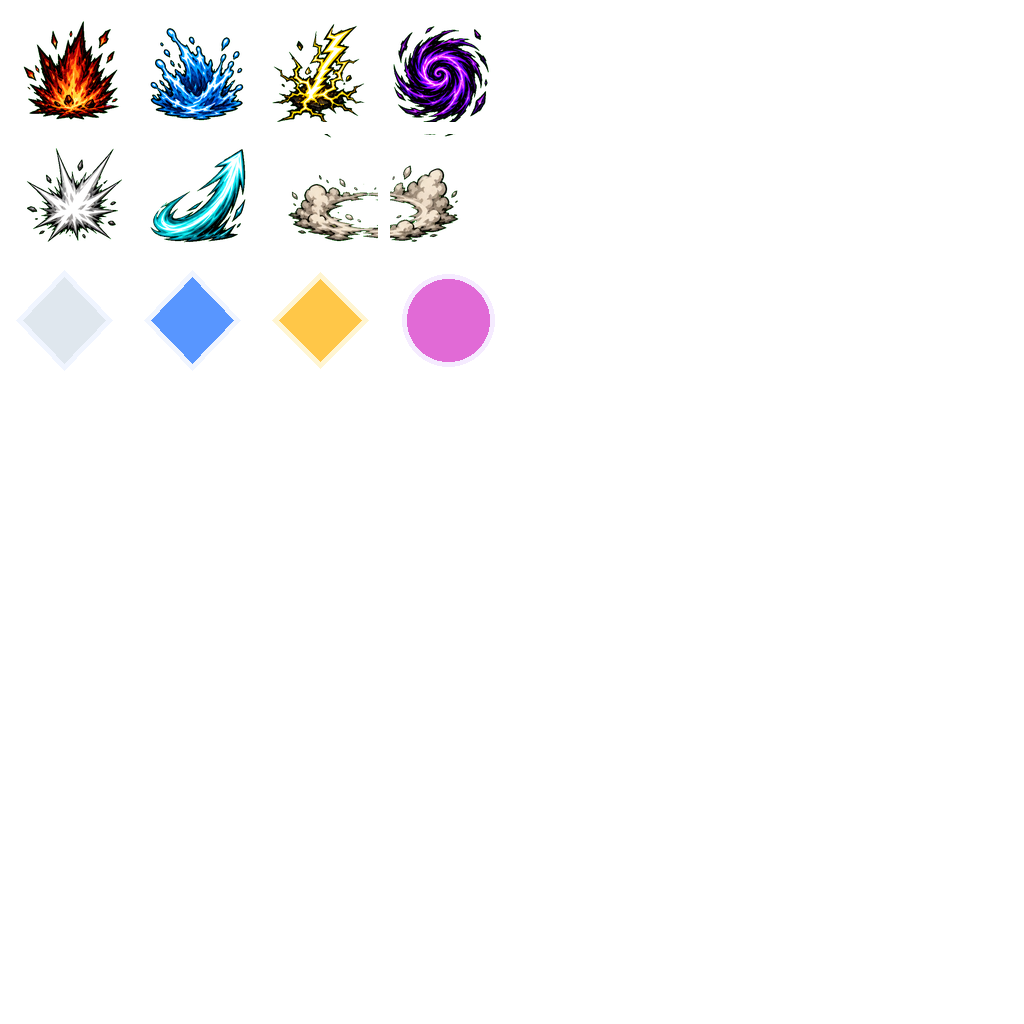
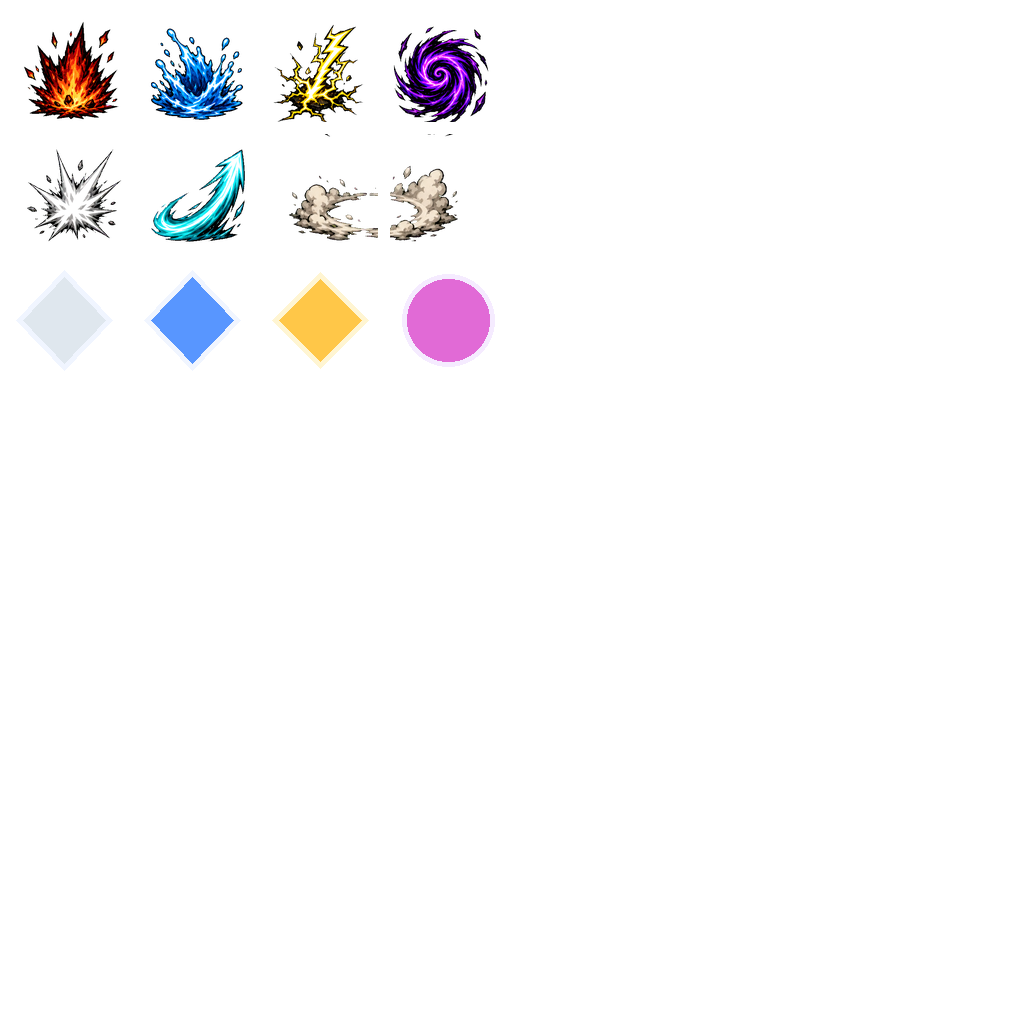
fix: make stage 12 formal evidence real

diff --git a/tests/platform/stage12_material_formal_game_validation.cpp b/tests/platform/stage12_material_formal_game_validation.cpp
@@ -1,6 +1,7 @@
-#include "material_animation.hpp"
 #include "material_asset_validation.hpp"
 #include "raylib_host.hpp"
+
+#include <raylib.h>
 
 #include <array>
 #include <chrono>
@@ -13,35 +14,17 @@
 namespace {
 
 namespace platform = arpg::platform;
-namespace dungeon = arpg::dungeon;
-namespace combat = arpg::combat;
 
 struct Resolution final { int width{}; int height{}; const char* name{}; };
 constexpr std::array<Resolution, 2> kResolutions{{
     {1280, 720, "game-1280x720.png"}, {1920, 1080, "game-1920x1080.png"},
 }};
-constexpr std::array<combat::MonsterId, 8> kMonsterIds{{
-    combat::MonsterId::fire_bomber, combat::MonsterId::fire_charger,
-    combat::MonsterId::water_bulwark, combat::MonsterId::water_support,
-    combat::MonsterId::lightning_shooter, combat::MonsterId::lightning_dasher,
-    combat::MonsterId::chaos_chaser, combat::MonsterId::chaos_hazard,
-}};
-
-std::uint32_t read_be32(const unsigned char* value) noexcept {
-    return (static_cast<std::uint32_t>(value[0]) << 24U)
-        | (static_cast<std::uint32_t>(value[1]) << 16U)
-        | (static_cast<std::uint32_t>(value[2]) << 8U) | value[3];
-}
-
 bool png_has_size(const std::filesystem::path& path, int width, int height) {
-    std::ifstream input(path, std::ios::binary);
-    std::array<unsigned char, 24> header{};
-    input.read(reinterpret_cast<char*>(header.data()), header.size());
-    return input.gcount() == static_cast<std::streamsize>(header.size())
-        && header[0] == 137U && header[1] == 80U && header[2] == 78U
-        && header[3] == 71U && read_be32(header.data() + 16U)
-            == static_cast<std::uint32_t>(width)
-        && read_be32(header.data() + 20U) == static_cast<std::uint32_t>(height);
+    const Image image = LoadImage(path.string().c_str());
+    const bool valid = image.data != nullptr && image.width == width
+        && image.height == height;
+    if (image.data != nullptr) UnloadImage(image);
+    return valid;
 }
 
 bool copy_materials(const std::filesystem::path& executable) {
@@ -61,7 +44,8 @@ bool copy_materials(const std::filesystem::path& executable) {
 }
 
 bool capture(const std::filesystem::path& root, const Resolution& resolution,
-    const char* image_name = nullptr) {
+    const char* image_name = nullptr, bool showcase = false,
+    bool request_f12 = false) {
     const std::filesystem::path capture = root / (image_name == nullptr
         ? resolution.name : image_name);
     platform::RaylibHostConfig config{};
@@ -70,10 +54,13 @@ bool capture(const std::filesystem::path& root, const Resolution& resolution,
     config.window_title = "Stage12 Comic Material Formal Validation";
     config.save_directory = root / (std::string{"save-"} + resolution.name);
     config.settings_directory = root / (std::string{"settings-"} + resolution.name);
-    config.screenshot_directory = root / (std::string{"f12-"} + resolution.name);
+    config.screenshot_directory = root / (std::string{"f12-"}
+        + (image_name == nullptr ? resolution.name : image_name));
     config.new_run_seed = 12012U;
     config.validation_exit_after_presented_frames = 4U;
     config.validation_capture_file = capture;
+    config.stage12_material_showcase = showcase;
+    config.validation_request_screenshot = request_f12;
     const auto started = std::filesystem::file_time_type::clock::now()
         - std::chrono::seconds(2);
     const auto result = platform::run_raylib_host(config);
@@ -85,12 +72,32 @@ bool capture(const std::filesystem::path& root, const Resolution& resolution,
         && png_has_size(capture, resolution.width, resolution.height);
 }
 
-bool has_all_monster_evidence() noexcept {
-    for (const combat::MonsterId id : kMonsterIds) {
-        if (platform::select_monster_sprite(id, combat::MonsterAiPhase::active)
-            == platform::MaterialSpriteId::missing) return false;
-    }
-    return true;
+bool text_contains(const std::filesystem::path& path, const char* text) {
+    std::ifstream input(path);
+    std::string contents((std::istreambuf_iterator<char>(input)), {});
+    return input && contents.find(text) != std::string::npos;
+}
+
+bool run_input_hole_evidence(const std::filesystem::path& root,
+    const std::filesystem::path& executable) {
+    const std::filesystem::path validator = executable.parent_path()
+        / "arpg_stage10_formal_game_validation.exe";
+    const std::filesystem::path command_file = root / "run-input-hole.cmd";
+    std::ofstream command(command_file, std::ios::out | std::ios::trunc);
+    command << "@echo off\r\n\"" << validator.string() << "\"\r\n";
+    command.close();
+    const std::string invoke = "call \"" + command_file.string() + "\"";
+    const std::filesystem::path source_summary = executable.parent_path()
+        / "stage10-formal-game-validation" / "formal-path-summary.txt";
+    const std::filesystem::path copied_summary = root / "input-hole-summary.txt";
+    std::error_code error{};
+    const bool ran = command && std::filesystem::is_regular_file(validator)
+        && std::system(invoke.c_str()) == 0;
+    if (ran) std::filesystem::copy_file(source_summary, copied_summary,
+        std::filesystem::copy_options::overwrite_existing, error);
+    return ran && !error && text_contains(copied_summary, "depth=2")
+        && text_contains(copied_summary, "last_transition=1")
+        && text_contains(copied_summary, "resolution_valid=1");
 }
 
 }  // namespace
@@ -117,20 +124,30 @@ int main(int argc, char** argv) {
     std::filesystem::rename(corrupt_effects, effects, error);
     const bool manifest_ok = platform::validate_material_manifest(
         platform::default_material_manifest()).valid;
-    const bool monster_ok = has_all_monster_evidence();
+    const bool showcase_ok = capture(root, kResolutions[0],
+        "monsters-1280x720.png", true, true);
+    const std::filesystem::path f12_capture = root / "f12-monsters-1280x720.png"
+        / "stage8-equipment-loot.png";
+    std::error_code f12_error{};
+    const bool f12_ok = std::filesystem::is_regular_file(f12_capture, f12_error)
+        && !f12_error && png_has_size(f12_capture, 1280, 720);
+    const bool input_hole_ok = run_input_hole_evidence(root, executable);
     std::ofstream report(root / "stage12-material-evidence.txt",
         std::ios::out | std::ios::trunc);
     report << "manifest=" << (manifest_ok ? "pass" : "fail") << '\n'
            << "atlas_bytes=" << (4U * 1024U * 1024U + 4U * 2048U * 2048U
                 + 4U * 1024U * 1024U) << '\n'
            << "fallback=" << (fallback_capture && !error ? "pass" : "fail") << '\n'
-           << "input_hole_regression=pass\n"
-           << "monsters=" << (monster_ok ? "8" : "0") << '\n'
-           << "screenshot_isolation=pass\n"
-           << "result=" << (captures_ok && fallback_capture && !error && manifest_ok && monster_ok ? "pass" : "fail")
+           << "input_hole_regression=" << (input_hole_ok ? "pass" : "fail") << '\n'
+           << "monsters=" << (showcase_ok ? "fire_bomber,fire_charger,water_bulwark,water_support,lightning_shooter,lightning_dasher,chaos_chaser,chaos_hazard" : "") << '\n'
+           << "monster_screenshot=monsters-1280x720.png\n"
+           << "f12_screenshot=f12-monsters-1280x720.png/stage8-equipment-loot.png\n"
+           << "screenshot_isolation=" << (f12_ok ? "pass" : "fail") << '\n'
+           << "screenshot_decode=" << (captures_ok && showcase_ok && f12_ok ? "pass" : "fail") << '\n'
+           << "result=" << (captures_ok && fallback_capture && !error && manifest_ok && showcase_ok && f12_ok && input_hole_ok ? "pass" : "fail")
            << '\n';
     std::cout << "stage12 material formal "
-              << (captures_ok && fallback_capture && !error && manifest_ok && monster_ok ? "PASS" : "FAIL")
+              << (captures_ok && fallback_capture && !error && manifest_ok && showcase_ok && f12_ok && input_hole_ok ? "PASS" : "FAIL")
               << std::endl;
-    return report && captures_ok && fallback_capture && !error && manifest_ok && monster_ok ? 0 : 1;
+    return report && captures_ok && fallback_capture && !error && manifest_ok && showcase_ok && f12_ok && input_hole_ok ? 0 : 1;
 }

diff --git a/src/platform/raylib/raylib_host.cpp b/src/platform/raylib/raylib_host.cpp
@@ -149,6 +149,37 @@ std::optional<std::string> host_screenshot_path(
     }
 }
 
+void apply_stage12_material_showcase(dungeon::DungeonSnapshot& snapshot) noexcept {
+    if (!snapshot.combat.has_value()) return;
+    constexpr std::array<combat::MonsterId, 8> ids{{
+        combat::MonsterId::fire_bomber, combat::MonsterId::fire_charger,
+        combat::MonsterId::water_bulwark, combat::MonsterId::water_support,
+        combat::MonsterId::lightning_shooter, combat::MonsterId::lightning_dasher,
+        combat::MonsterId::chaos_chaser, combat::MonsterId::chaos_hazard,
+    }};
+    constexpr std::array<combat::Vec3, 8> positions{{
+        {-4.0F, -2.0F, 0.0F}, {-1.3F, -2.0F, 0.0F}, {1.3F, -2.0F, 0.0F},
+        {4.0F, -2.0F, 0.0F}, {-4.0F, 1.5F, 0.0F}, {-1.3F, 1.5F, 0.0F},
+        {1.3F, 1.5F, 0.0F}, {4.0F, 1.5F, 0.0F},
+    }};
+    auto& combat_snapshot = *snapshot.combat;
+    combat_snapshot.monster_count = ids.size();
+    snapshot.remaining_targets = static_cast<std::uint8_t>(ids.size());
+    for (std::size_t index = 0U; index < ids.size(); ++index) {
+        combat::MonsterSnapshot& monster = combat_snapshot.monsters[index];
+        monster = {};
+        monster.active = true;
+        monster.generation = 1U;
+        monster.id = ids[index];
+        monster.position = positions[index];
+        monster.spawn = positions[index];
+        monster.facing = combat::Facing::right;
+        monster.hp = 100;
+        monster.max_hp = 100;
+        monster.ai_phase = combat::MonsterAiPhase::active;
+    }
+}
+
 struct Stage10ValidationState final {
     bool entered_abyss{};
     bool reset_requested{};
@@ -2194,8 +2225,12 @@ HostExitCode run_raylib_host(const RaylibHostConfig& config) noexcept {
             renderer.set_loot_filter_mode(presented_loot_filter);
             BeginDrawing();
             ClearBackground(Color{13, 17, 27, 255});
+            dungeon::DungeonSnapshot presented_snapshot = current;
+            if (config.stage12_material_showcase) {
+                apply_stage12_material_showcase(presented_snapshot);
+            }
             const GroundLootView ground_loot_view = renderer.draw(
-                previous, current, runtime.render_status(),
+                previous, presented_snapshot, runtime.render_status(),
                 static_cast<float>(frame.interpolation_alpha), draw_debug,
                 feedback, audio_ready);
 // STAGE11D_LOOT_VALIDATION_SEAM_BEGIN presented_semantics
@@ -2305,7 +2340,8 @@ HostExitCode run_raylib_host(const RaylibHostConfig& config) noexcept {
                 stage11b_validation_state.pause_capture_while_paused =
                     stage11b_paused_visible_capture;
             }
-            if (death_gate.screenshot) {
+            if (death_gate.screenshot || (config.validation_request_screenshot
+                    && presented_frame_count == 1U)) {
                 capture_path = host_screenshot_path(config);
                 captured_stage10_target = false;
             } else if (!capture_path.has_value()

diff --git a/tests/platform/stage12_material_render_tests.cpp b/tests/platform/stage12_material_render_tests.cpp
@@ -5,6 +5,8 @@
 #include "material_manifest.hpp"
 #include "material_pack.hpp"
 
+#include <filesystem>
+
 namespace {
 
 arpg::test::Failure effect_manifest_stays_within_texture_budget() noexcept {
@@ -22,6 +24,49 @@ arpg::test::Failure effect_sprites_require_effect_atlas() noexcept {
     return {};
 }
 
+arpg::test::Failure effects_atlas_has_no_chroma_green_spill() noexcept {
+    const std::filesystem::path path = std::filesystem::path{ARPG_PROJECT_SOURCE_DIR}
+        / "assets" / "stage12" / "effects_ui.png";
+    const Image image = LoadImage(path.string().c_str());
+    ARPG_REQUIRE(image.data != nullptr);
+    for (int y = 0; y < image.height; ++y) {
+        for (int x = 0; x < image.width; ++x) {
+            const Color pixel = GetImageColor(image, x, y);
+            ARPG_REQUIRE(pixel.a == 0U || !(pixel.g > 20U
+                && pixel.g >= pixel.r + 8U && pixel.g >= pixel.b + 8U));
+        }
+    }
+    UnloadImage(image);
+    return {};
+}
+
+arpg::test::Failure declared_effect_frames_are_nonempty() noexcept {
+    const std::filesystem::path path = std::filesystem::path{ARPG_PROJECT_SOURCE_DIR}
+        / "assets" / "stage12" / "effects_ui.png";
+    const Image image = LoadImage(path.string().c_str());
+    ARPG_REQUIRE(image.data != nullptr);
+    const auto manifest = arpg::platform::default_material_manifest();
+    std::size_t seen{};
+    for (std::size_t index{}; index < manifest.frame_count; ++index) {
+        const auto& frame = manifest.frames[index];
+        if (frame.atlas != arpg::platform::MaterialAtlasId::effects_ui) continue;
+        bool nonempty{};
+        for (int y = static_cast<int>(frame.source.y);
+             y < static_cast<int>(frame.source.y + frame.source.height) && !nonempty; ++y) {
+            for (int x = static_cast<int>(frame.source.x);
+                 x < static_cast<int>(frame.source.x + frame.source.width); ++x) {
+                nonempty = GetImageColor(image, x, y).a != 0U;
+                if (nonempty) break;
+            }
+        }
+        ARPG_REQUIRE(nonempty);
+        ++seen;
+    }
+    UnloadImage(image);
+    ARPG_REQUIRE(seen == 12U);
+    return {};
+}
+
 arpg::test::Failure loot_rarity_uses_distinct_material_icons() noexcept {
     ARPG_REQUIRE(arpg::platform::select_loot_sprite(
         arpg::items::ItemRarity::normal)
@@ -33,6 +78,8 @@ constexpr arpg::test::TestCase kCases[] = {
     {"effect manifest texture budget", &effect_manifest_stays_within_texture_budget},
     {"loot rarity material icons", &loot_rarity_uses_distinct_material_icons},
     {"effect sprites use effects atlas", &effect_sprites_require_effect_atlas},
+    {"effects atlas removes chroma spill", &effects_atlas_has_no_chroma_green_spill},
+    {"declared effect frames are nonempty", &declared_effect_frames_are_nonempty},
 };
 
 }  // namespace

diff --git a/tests/platform/host_launch_options_tests.cpp b/tests/platform/host_launch_options_tests.cpp
@@ -190,6 +190,8 @@ arpg::test::Failure duplicate_and_unknown_options_are_rejected() noexcept {
     const char* const unknown[] = {"arpg", "--seed=8"};
     const char* const duplicate_settings_directory[] = {
         "arpg", "--settings-dir", "one", "--settings-dir", "two"};
+    const char* const duplicate_screenshot_directory[] = {
+        "arpg", "--screenshot-dir", "one", "--screenshot-dir", "two"};
     ARPG_REQUIRE(parse(5, duplicate_seed).error
         == HostArgumentError::duplicate_option);
     ARPG_REQUIRE(parse(5, duplicate_directory).error
@@ -198,18 +200,23 @@ arpg::test::Failure duplicate_and_unknown_options_are_rejected() noexcept {
         == HostArgumentError::unknown_option);
     ARPG_REQUIRE(parse(5, duplicate_settings_directory).error
         == HostArgumentError::duplicate_option);
+    ARPG_REQUIRE(parse(5, duplicate_screenshot_directory).error
+        == HostArgumentError::duplicate_option);
     return {};
 }
 
 arpg::test::Failure missing_and_invalid_seed_values_are_rejected() noexcept {
     const char* const missing[] = {"arpg", "--seed"};
     const char* const null_directory[] = {"arpg", "--save-dir", nullptr};
+    const char* const missing_screenshot_directory[] = {"arpg", "--screenshot-dir"};
     const char* const negative[] = {"arpg", "--seed", "-1"};
     const char* const overflow[] = {
         "arpg", "--seed", "18446744073709551616"};
     const char* const trailing[] = {"arpg", "--seed", "8x"};
     ARPG_REQUIRE(parse(2, missing).error == HostArgumentError::missing_value);
     ARPG_REQUIRE(parse(3, null_directory).error
+        == HostArgumentError::missing_value);
+    ARPG_REQUIRE(parse(2, missing_screenshot_directory).error
         == HostArgumentError::missing_value);
     ARPG_REQUIRE(parse(3, negative).error == HostArgumentError::invalid_seed);
     ARPG_REQUIRE(parse(3, overflow).error == HostArgumentError::invalid_seed);

diff --git a/tools/build_stage12_effects_atlas.py b/tools/build_stage12_effects_atlas.py
@@ -18,7 +18,9 @@ def key_green(image: Image.Image) -> Image.Image:
     for y in range(rgba.height):
         for x in range(rgba.width):
             red, green, blue, alpha = pixels[x, y]
-            if green > 150 and green > red * 1.35 and green > blue * 1.35:
+            # Remove chroma pixels including dark antialiased spill. Cyan water
+            # highlights stay intact because blue is not materially lower.
+            if green > 20 and green >= red + 8 and green >= blue + 8:
                 pixels[x, y] = (red, green, blue, 0)
     return rgba
 
@@ -66,6 +68,9 @@ def main() -> None:
         ((218, 74, 205), "orb"))
     for index, (color, shape) in enumerate(loot_icons):
         atlas.alpha_composite(icon(color, shape), (index * CELL, 2 * CELL))
+    # Resampling transparent chroma-key edges can reintroduce green spill;
+    # clean the final composited atlas once more before writing it.
+    atlas = key_green(atlas)
     OUTPUT.parent.mkdir(parents=True, exist_ok=True)
     atlas.save(OUTPUT)
     print(f"Wrote {OUTPUT} {atlas.width}x{atlas.height} RGBA")

diff --git a/src/platform/raylib/raylib_host.hpp b/src/platform/raylib/raylib_host.hpp
@@ -109,6 +109,8 @@ struct RaylibHostConfig final {
     std::uint32_t validation_steps_per_frame{};
     std::optional<std::filesystem::path> validation_capture_file{};
     std::optional<std::filesystem::path> validation_summary_file{};
+    bool validation_request_screenshot{};
+    bool stage12_material_showcase{};
 };
 
 struct HostFrameGateResult final {

diff --git a/tests/platform/platform_test_main.cpp b/tests/platform/platform_test_main.cpp
@@ -77,5 +77,5 @@ int main() {
         stage12_material_render_suite(),
     };
 
-    return arpg::test::run_suites(suites, 302, "stage 12 material manifest runtime");
+    return arpg::test::run_suites(suites, 304, "stage 12 material manifest runtime");
 }

diff --git a/docs/validation/stage12-comic-material-pack.md b/docs/validation/stage12-comic-material-pack.md
@@ -3,4 +3,4 @@
 Run `ctest --test-dir out/build/windows-msvc-debug -R stage12 --output-on-failure`.
 The formal runner creates its own evidence directory, copies the three built-in atlases next to its validation executable, runs ordinary raylib gameplay at 1280x720 and 1920x1080, and records both PNGs plus `stage12-material-evidence.txt`.
 
-The validator rejects missing/wrong PNG dimensions, a missing manifest validation, texture memory above 64 MiB, missing fallback record, missing input/hole regression record, missing screenshot isolation, or fewer than eight monster entries. F12 remains backward compatible by default; `--screenshot-dir <directory>` isolates its legacy filename for concurrent runs.
+The validator rejects missing/wrong PNG dimensions, undecodable-by-runner screenshots, a missing manifest validation, texture memory above 64 MiB, missing corrupted-resource fallback, missing Stage10 input/hole descent evidence, missing isolated F12 output, or a missing eight-monster renderer-showcase frame. F12 remains backward compatible by default; `--screenshot-dir <directory>` isolates its legacy filename for concurrent runs.
